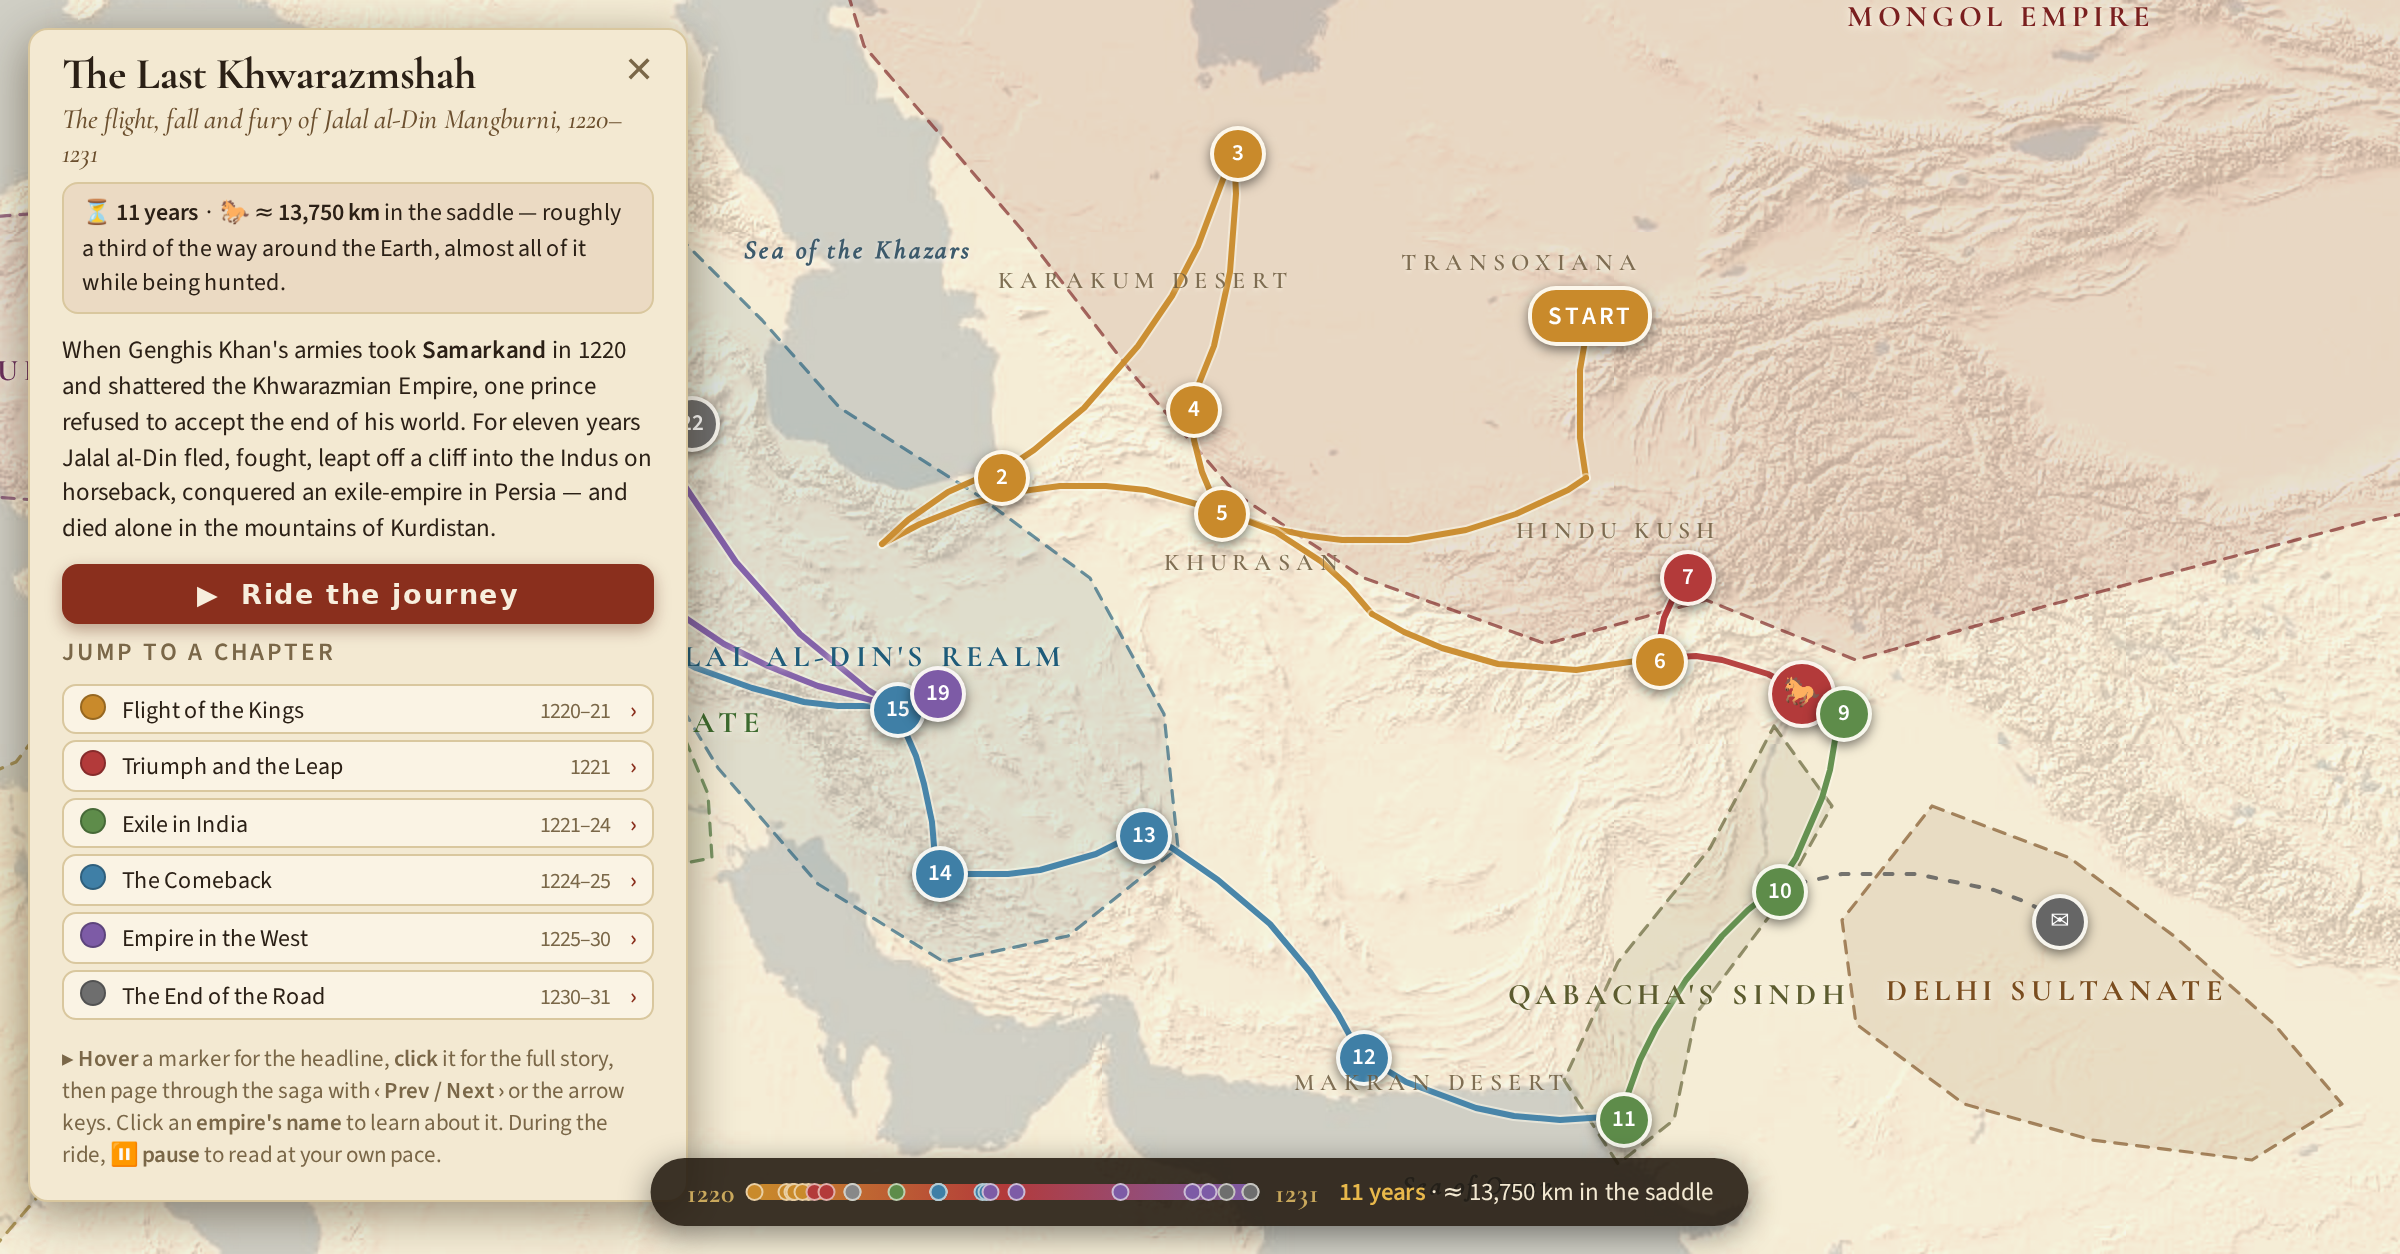
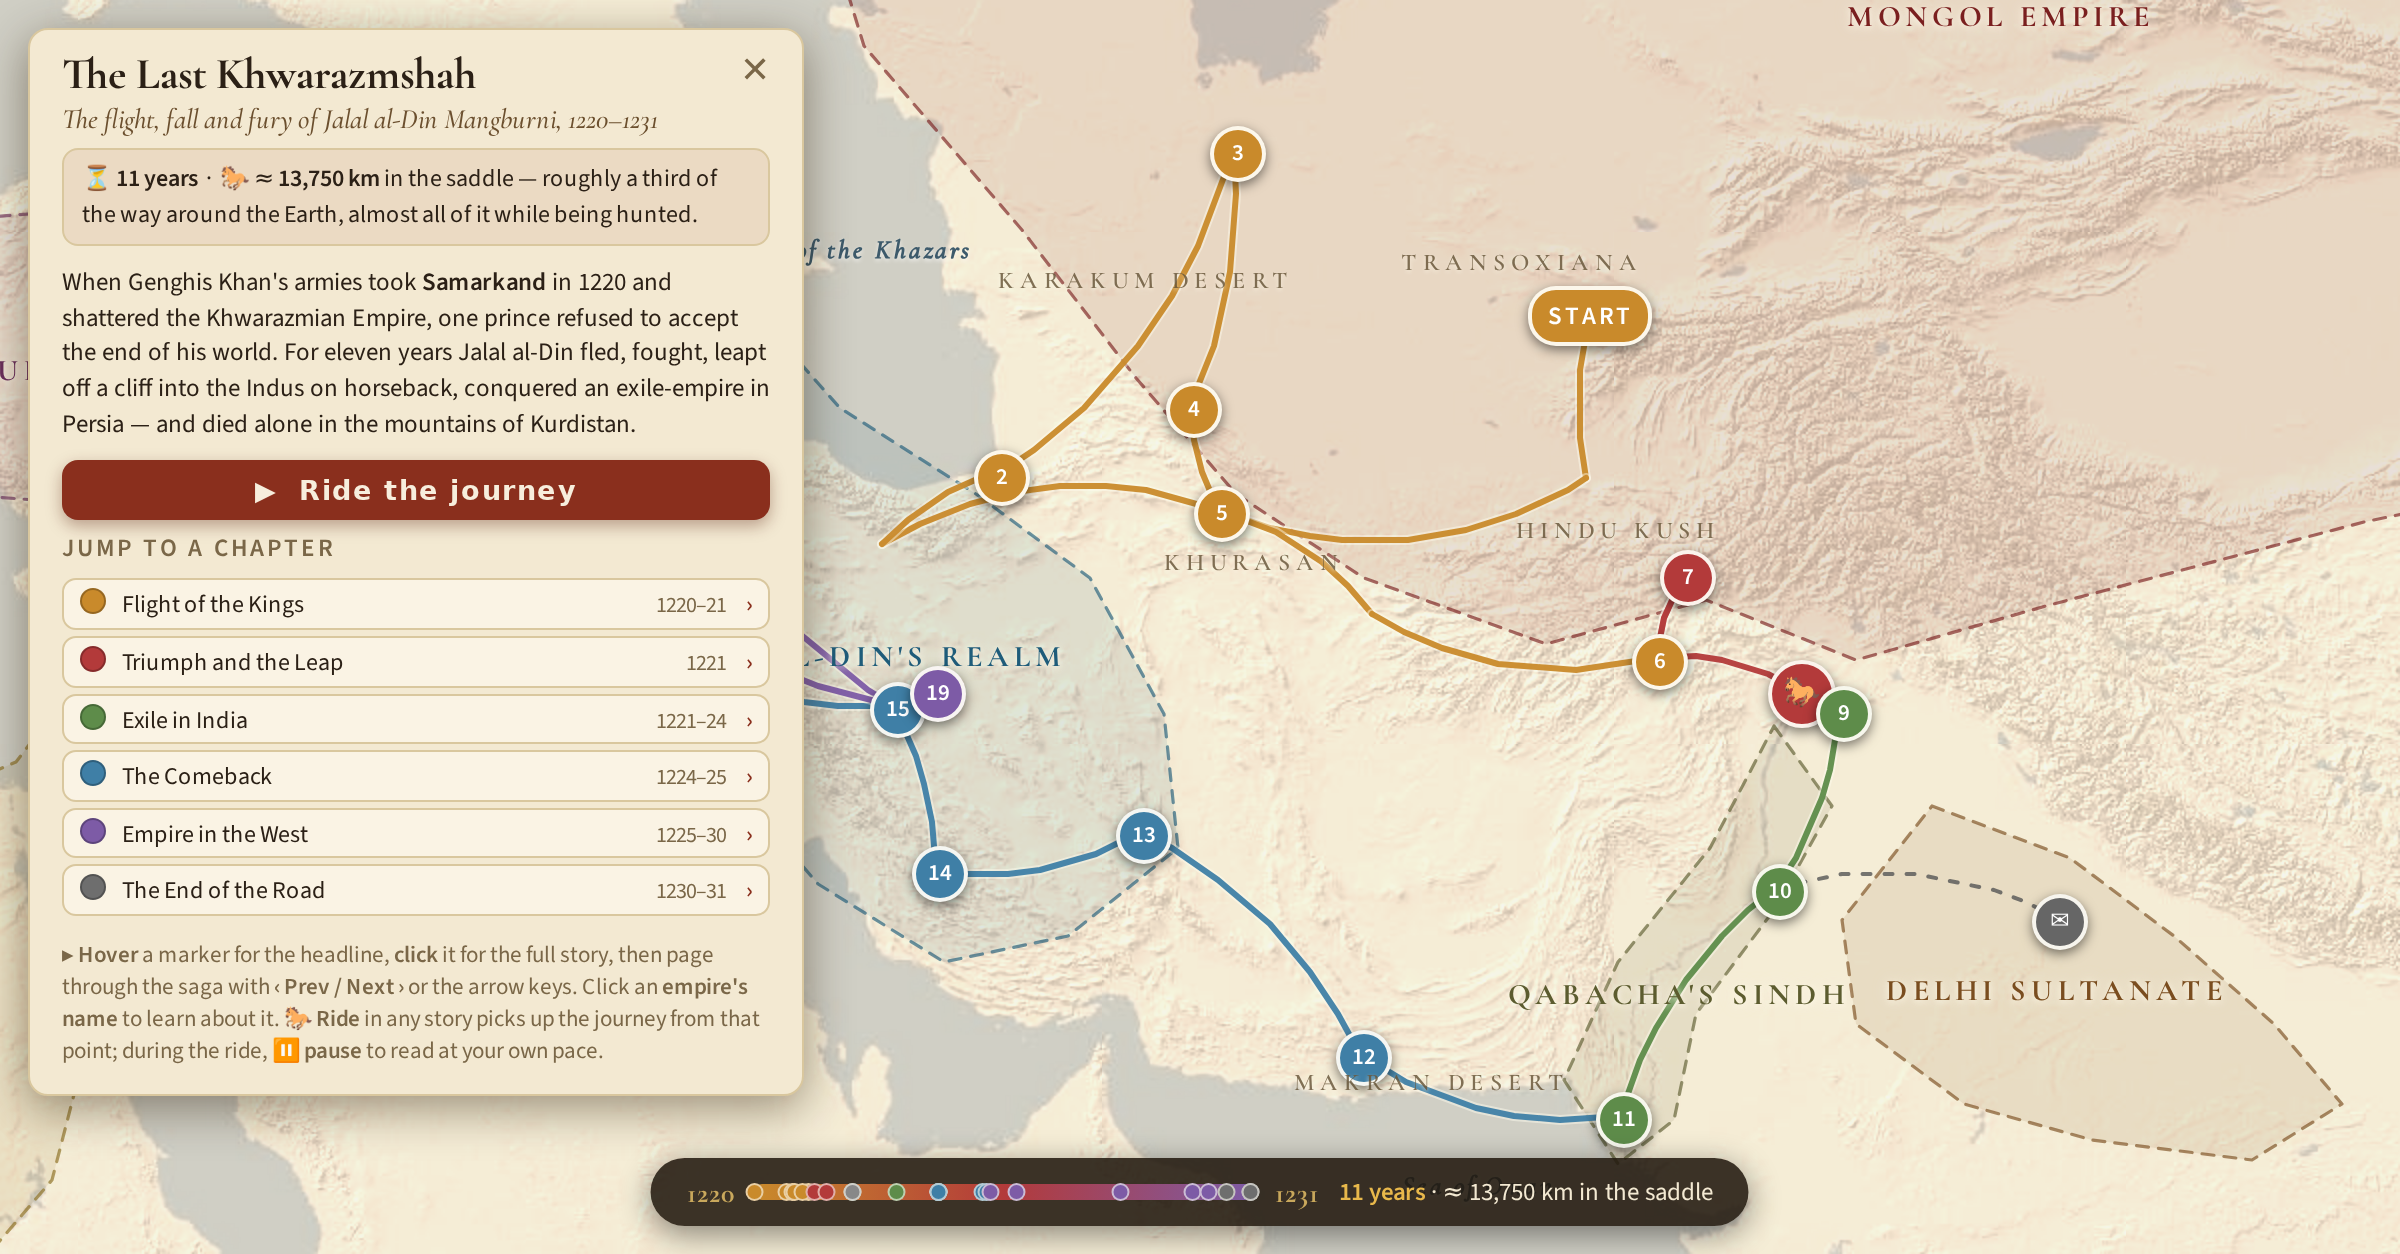
Widen story panel and add ride-from-any-stop
- Panel widened to 388px so the subtitle fits on one line (the earlier
  box-sizing fix had silently shrunk the content area); the 1220-1231 range
  is also marked no-wrap so a date can never orphan onto its own line
- Every story popup (except the embassy side-trip and the final stop) gets
  a "Ride" button that continues the animated journey from that event,
  letting returning visitors resume the immersion where they left off
- Ride start is deferred until the click finishes bubbling, otherwise the
  popup re-render mid-dispatch let the click escape to the map and close it

Changed region(s): [[0.0, 0.0, 0.3438, 0.9952]]

diff --git a/index.html b/index.html
@@ -32,7 +32,7 @@
   /* ---------- Story panel ---------- */
   #panel{
     box-sizing:border-box;
-    position:absolute;z-index:1000;top:14px;left:14px;width:330px;max-height:calc(100% - 28px);
+    position:absolute;z-index:1000;top:14px;left:14px;width:388px;max-height:calc(100% - 28px);
     overflow-y:auto;background:var(--parchment);color:var(--ink);
     border:1px solid var(--parchment-edge);border-radius:10px;
     box-shadow:0 6px 24px rgba(40,25,5,.45);padding:14px 18px 10px;
@@ -177,6 +177,8 @@
     border-radius:6px;padding:3px 10px;cursor:pointer;font-size:12px;font-weight:600;}
   .pop .nb:hover:not(:disabled){background:var(--accent);color:#f7eedd;border-color:var(--accent);}
   .pop .nb:disabled{opacity:.35;cursor:default;}
+  .pop .nb.ride-from{background:var(--accent);color:#f7eedd;border-color:var(--accent);margin-right:4px;}
+  .pop .nb.ride-from:hover{background:#a13a24;}
   .leaflet-tooltip.evt-tip{
     background:rgba(33,24,14,.92);color:#f3e9d2;border:none;border-radius:6px;
     font-family:'Source Sans 3',sans-serif;font-size:12.5px;padding:5px 10px;
@@ -235,13 +237,13 @@
 <div id="panel">
   <button id="closePanel" title="Hide panel">✕</button>
   <h1>The Last Khwarazmshah</h1>
-  <h2>The flight, fall and fury of Jalal al-Din Mangburni, 1220–1231</h2>
+  <h2>The flight, fall and fury of Jalal al-Din Mangburni, <span style="white-space:nowrap">1220–1231</span></h2>
   <div class="stat">⏳ <b>11 years</b> &nbsp;·&nbsp; 🐎 ≈ <b><span id="totKm"></span> km</b> in the saddle — roughly a third of the way around the Earth, almost all of it while being hunted.</div>
   <p>When Genghis Khan's armies took <b>Samarkand</b> in 1220 and shattered the Khwarazmian Empire, one prince refused to accept the end of his world. For eleven years Jalal al-Din fled, fought, leapt off a cliff into the Indus on horseback, conquered an exile-empire in Persia — and died alone in the mountains of Kurdistan.</p>
   <button id="playBtn">▶ &nbsp;Ride the journey</button>
   <p class="listcap">Jump to a chapter</p>
   <ul class="chapters" id="chapterList"></ul>
-  <p class="small">▸ <b>Hover</b> a marker for the headline, <b>click</b> it for the full story, then page through the saga with <b>‹ Prev / Next ›</b> or the arrow keys. Click an <b>empire's name</b> to learn about it. During the ride, <b>⏸ pause</b> to read at your own pace.</p>
+  <p class="small">▸ <b>Hover</b> a marker for the headline, <b>click</b> it for the full story, then page through the saga with <b>‹ Prev / Next ›</b> or the arrow keys. Click an <b>empire's name</b> to learn about it. <b>🐎 Ride</b> in any story picks up the journey from that point; during the ride, <b>⏸ pause</b> to read at your own pace.</p>
 </div>
 
 <button id="infoBtn" title="About this map">ⓘ</button>
@@ -565,7 +567,7 @@ function fmtKm(k){ return (Math.round(k/50)*50).toLocaleString('en-US'); }
 const cumKm=[0];
 for (let i=1;i<flatPath.length;i++) cumKm[i]=cumKm[i-1]+havKm(flatPath[i-1],flatPath[i]);
 const totalKm = cumKm[cumKm.length-1];
-for (const [i,s] of Object.entries(eventAtIndex)) s._km = cumKm[i];
+for (const [i,s] of Object.entries(eventAtIndex)){ s._km = cumKm[i]; s._flatIdx = +i; }
 
 /* =============================== MARKERS =============================== */
 
@@ -593,6 +595,8 @@ function popupHtml(s, i){
     <div class="popfoot">
       <span class="chap" style="background:${s.embassy?'#666':c.color}">${c.name}</span>
       <span class="nav nav-browse">
+        ${s._flatIdx!=null && i<EVENT_SEQ.length-1
+          ? `<button class="nb ride-from" onclick="JADride(${i})" title="Continue the ride from this point">🐎 Ride</button>` : ''}
         <button class="nb" onclick="JADnav(${i-1})" ${i===0?'disabled':''}>‹ Prev</button>
         <span class="cnt">${i+1} / ${EVENT_SEQ.length}</span>
         <button class="nb" onclick="JADnav(${i+1})" ${i===EVENT_SEQ.length-1?'disabled':''}>Next ›</button>
@@ -774,20 +778,24 @@ function stopPlayback(){
   map.closePopup();
 }
 
-function startPlayback(){
-  if (playing){ stopPlayback(); return; }
-  playing=true; idx=0; lastTs=0; pauseUntil=0; segDone=0; setPaused(false);
-  progressLine.setLatLngs([flatPath[0]]);
-  horse.setLatLng(flatPath[0]);
+function startPlayback(fromStop){
+  if (playing){
+    stopPlayback();
+    if (!fromStop) return;           // the main play button acts as a toggle
+  }
+  playing=true; lastTs=0; pauseUntil=0; segDone=0; setPaused(false);
+  idx = (fromStop && fromStop._flatIdx != null) ? fromStop._flatIdx : 0;
+  progressLine.setLatLngs([flatPath[idx]]);
+  horse.setLatLng(flatPath[idx]);
   horse.addTo(map); progressLine.addTo(map);
   document.body.classList.add('riding');
   playBtn.textContent='⏹  Stop the ride';
   // collapse the story panel for full immersion; restored when the ride ends
   panelWasOpen = !document.getElementById('panel').classList.contains('hidden');
   hidePanel();
-  map.setView(flatPath[0], Math.max(map.getZoom(), 6), {animate:true});
-  announce(eventAtIndex[0]);
-  pauseUntil = performance.now() + dwellFor(eventAtIndex[0]);
+  map.setView(flatPath[idx], Math.max(map.getZoom(), 6), {animate:true});
+  announce(eventAtIndex[idx]);
+  pauseUntil = performance.now() + dwellFor(eventAtIndex[idx]);
   rafId = requestAnimationFrame(step);
 }
 
@@ -856,7 +864,14 @@ function follow(p){
   }
 }
 
-playBtn.onclick = startPlayback;
+playBtn.onclick = ()=>startPlayback(null);
+window.JADride = function(i){
+  const s = EVENT_SEQ[i];
+  if (!s || s._flatIdx == null) return;
+  /* Defer until the click finishes bubbling: starting the ride re-renders the
+     popup mid-dispatch, which lets the click escape to the map and close it. */
+  setTimeout(()=>startPlayback(s), 0);
+};
 tlPause.onclick = ()=>setPaused(!userPaused);
 document.getElementById('tlStop').onclick = stopPlayback;
 </script>